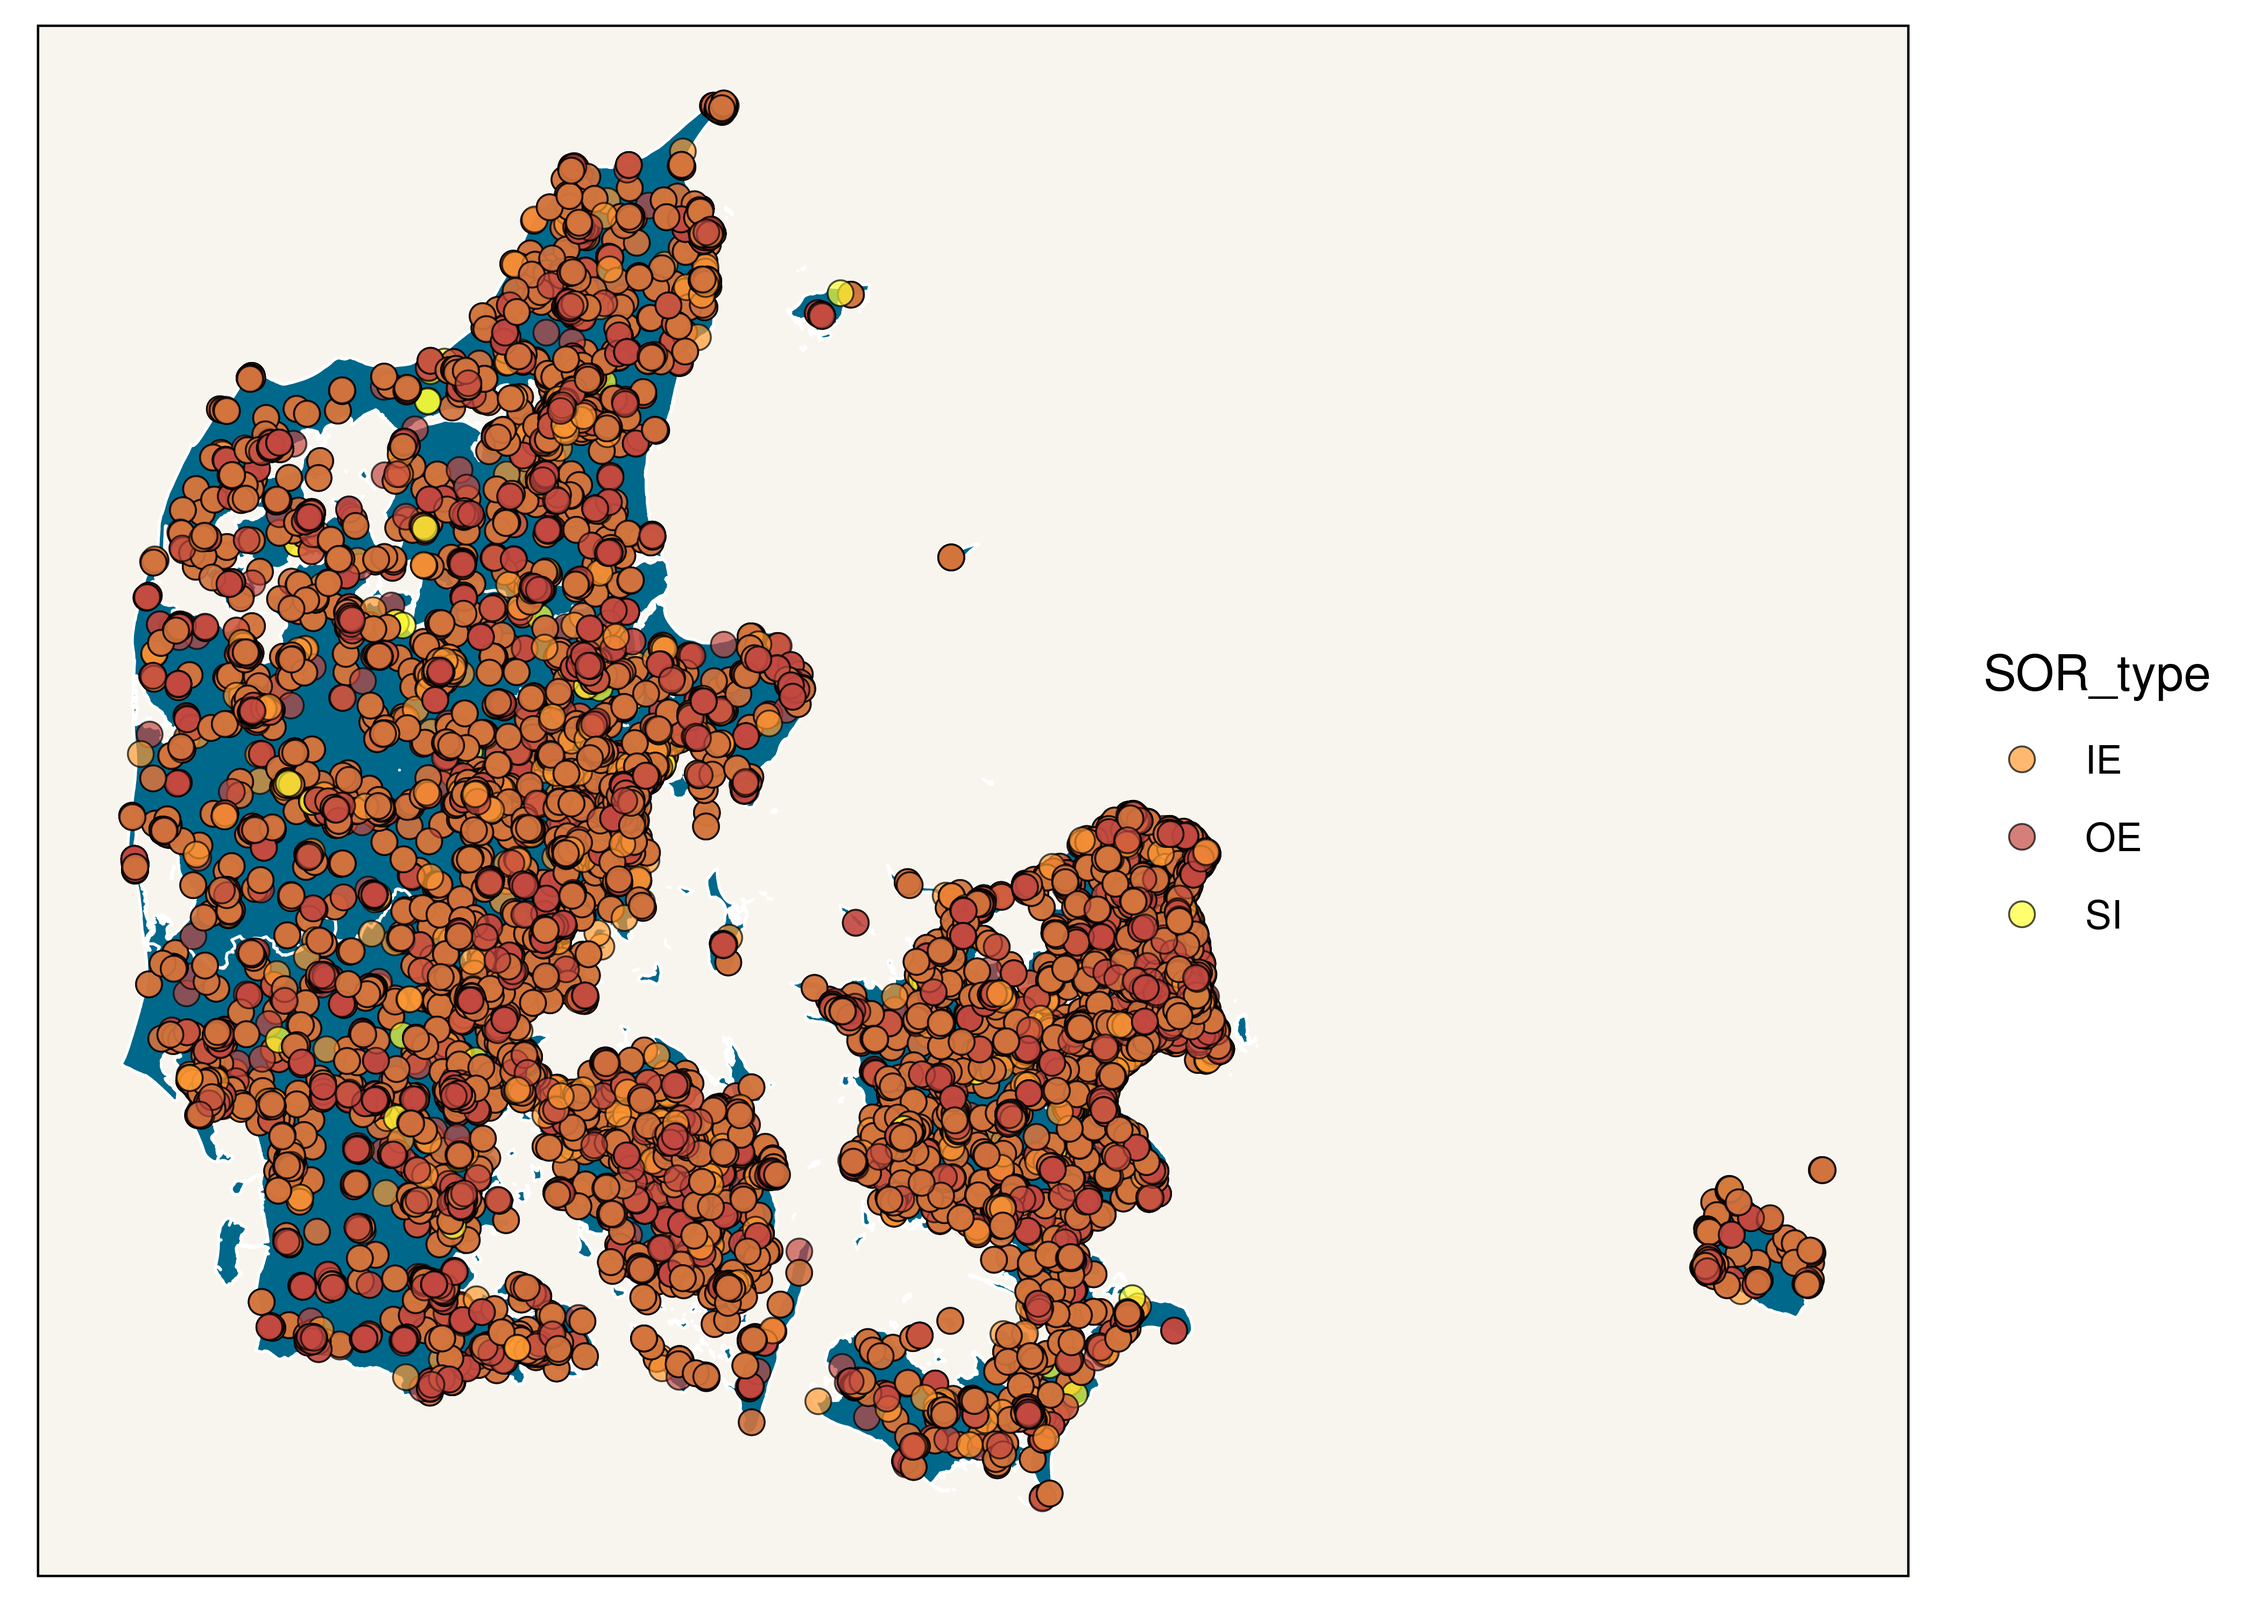
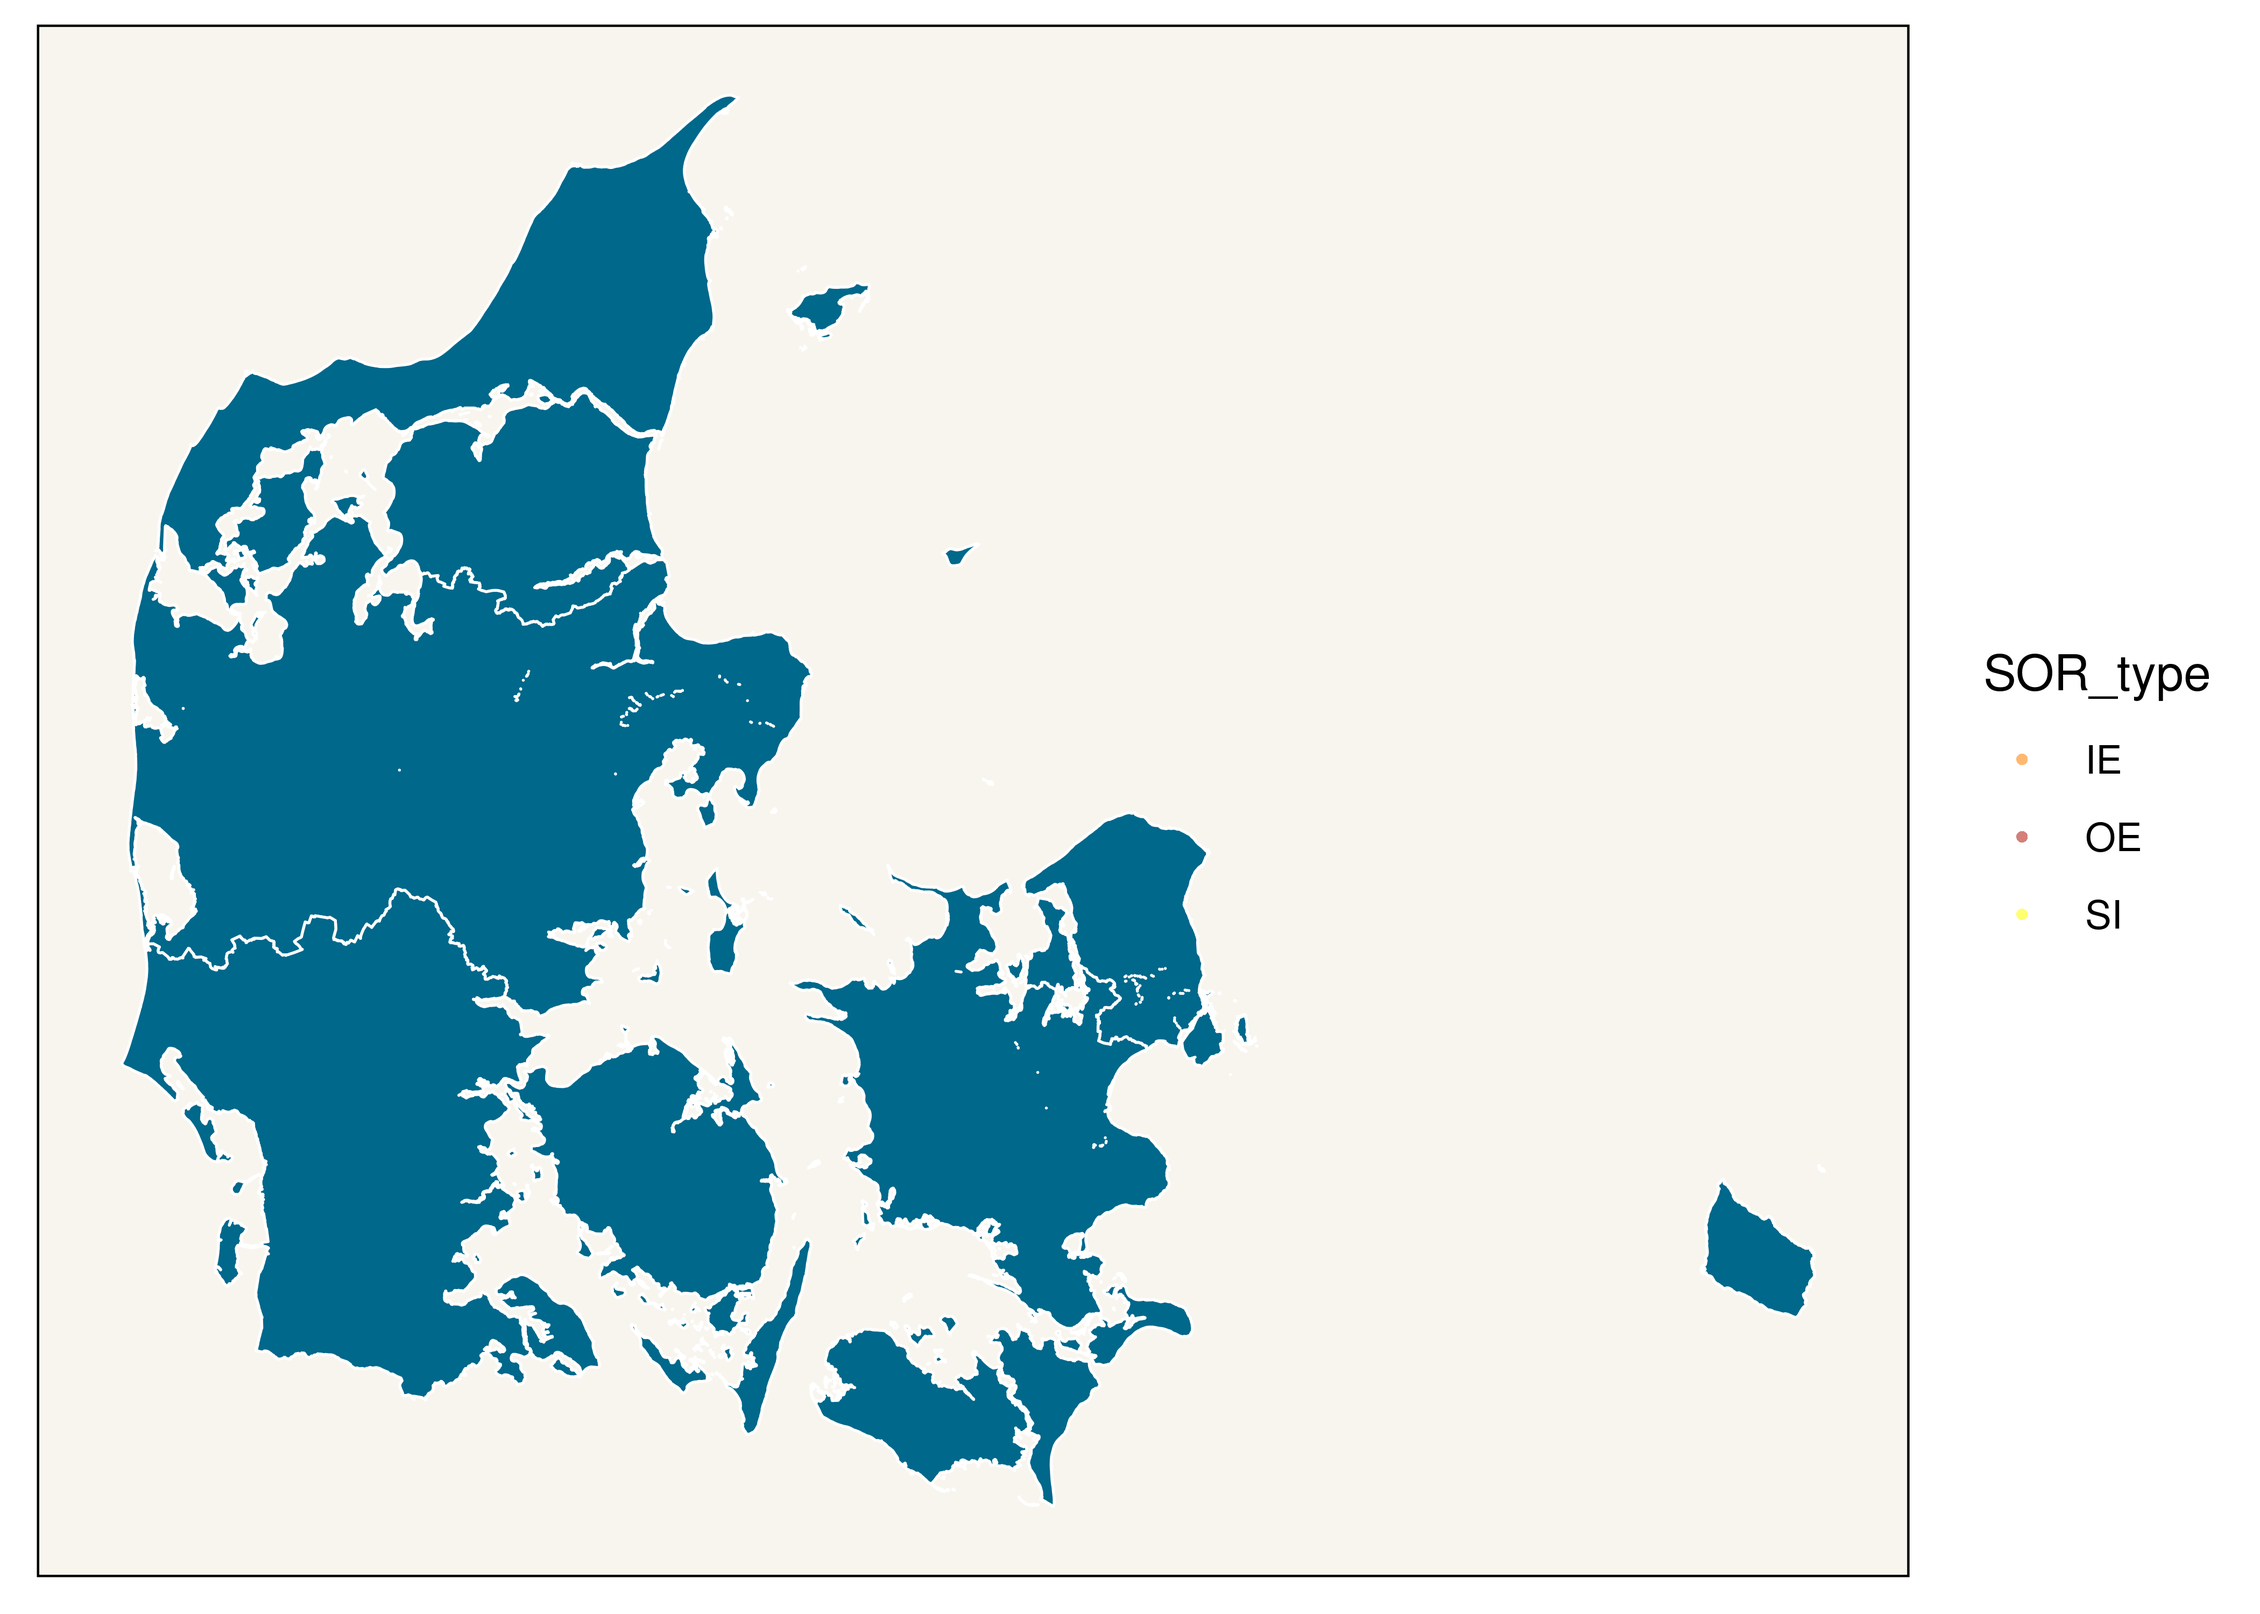
added more plots

diff --git a/readme.md b/readme.md
@@ -99,5 +99,8 @@ width="2100" />
 
 And the SOR-codes:
 
+    Warning: Removed 90084 rows containing missing values or values outside the scale range
+    (`geom_point()`).
+
 <img src="readme_files/figure-commonmark/unnamed-chunk-9-1.png"
 width="2100" />
